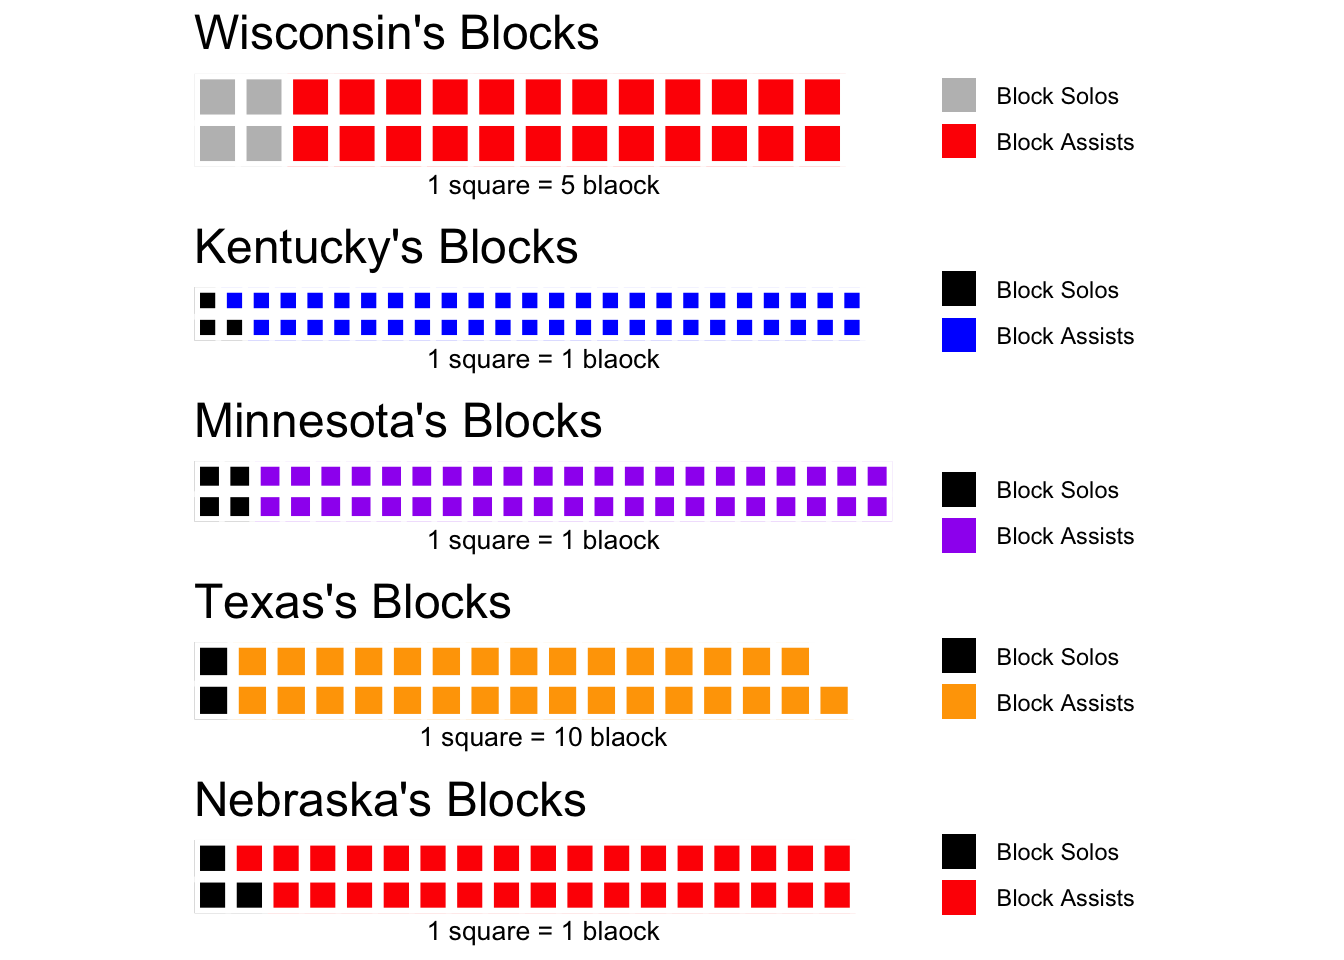
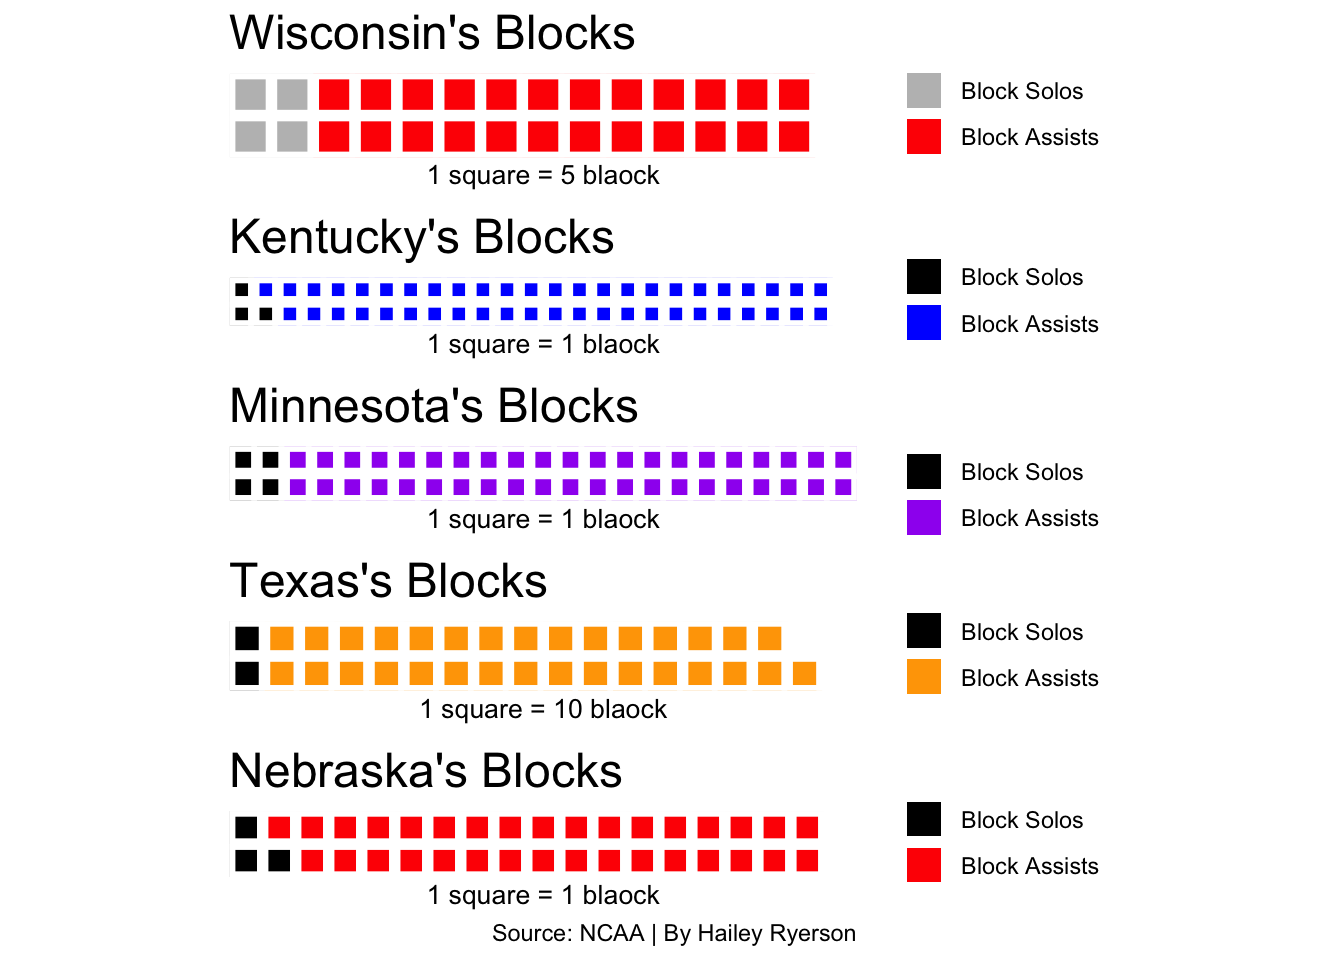
Waffle charts

Changed region(s): [[0.125, 0.0, 0.8438, 1.0], [0.6562, 0.625, 0.8438, 0.75], [0.6562, 0.0625, 0.8438, 0.1875]]

diff --git a/2021/04/01/hailey-ryerson-s-spmc-350-final-project/index.html b/2021/04/01/hailey-ryerson-s-spmc-350-final-project/index.html
@@ -284,8 +284,8 @@ waffle(
         rows = 2, 
         title=&quot;Nebraska&#39;s Blocks&quot;, 
         xlab=&quot;1 square = 1 blaock&quot;, 
-        colors = c(&quot;black&quot;, &quot;red&quot;)
-)
+        colors = c(&quot;black&quot;, &quot;red&quot;)) +
+        labs(caption=&quot;Source: NCAA | By Hailey Ryerson&quot;)
 )</code></pre>
 <p><img src="http://haileyryerson.github.io/2021/04/01/hailey-ryerson-s-spmc-350-final-project/index_files/figure-html/wafflePlot-1.png" width="672" />
 Texas has almost over 100 more blocks in assists than Minnesota. Brionne Butler’s defense is very hard to attack against, especially with her in the middle for Texas’ s offense.</p>
